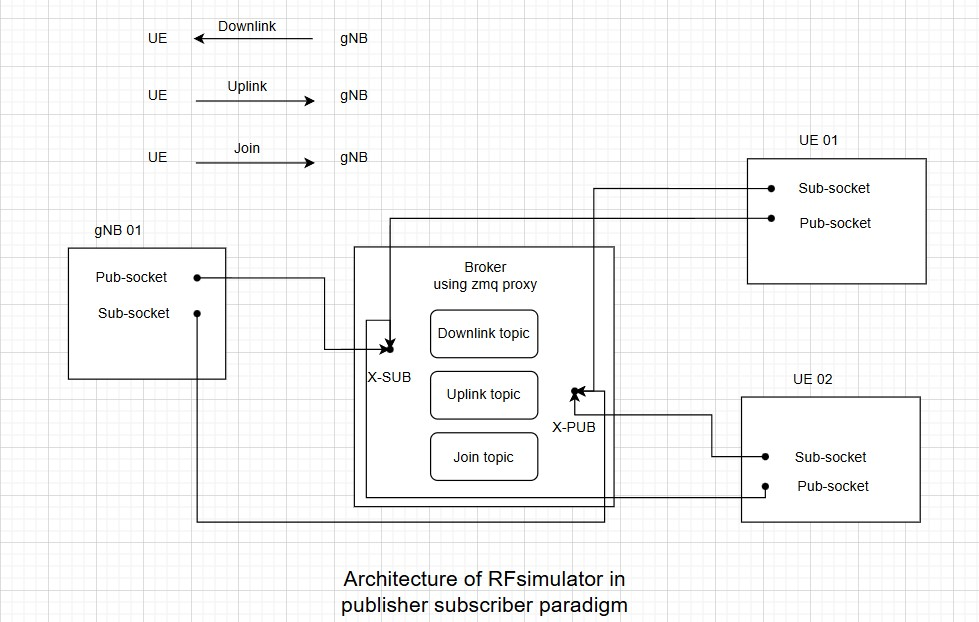
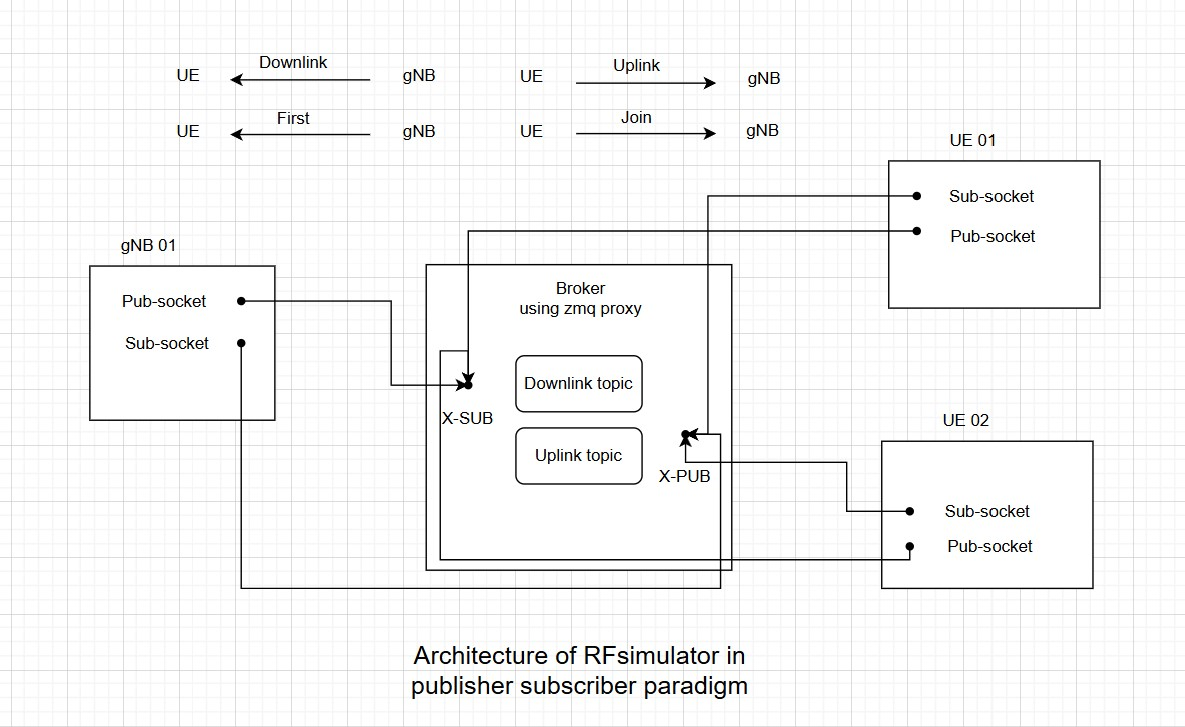
Updated architecture section

diff --git a/doc/rfsimulator_pub_sub/rfsim_pub_sub.md b/doc/rfsimulator_pub_sub/rfsim_pub_sub.md
@@ -4,14 +4,18 @@
 The original implementation of the RF simulator has certain limitations, particularly with regard to sidelink and mobility features. This is due to its client-server architecture, which was implemented using BSD sockets. To overcome these constraints, we transitioned to a publisher-subscriber paradigm using the ZMQ library. This new approach enhances scalability, enabling support for a larger number of devices.  
 # Architecture :
 
-The main components in the new architecture are:
-**Broker**: The broker is built using XSUB and XPUB sockets, and the [zmq_proxy](http://api.zeromq.org/4-2:zmq-proxy) function to route traffic between the two sockets.
+The main components in the new architecture are:  
+**Broker**: The broker is built using XSUB and XPUB sockets, and the [zmq proxy](http://api.zeromq.org/4-2:zmq-proxy) function to route traffic between the two sockets.
 
 The gNB and the UE both have 2 sockets, a subscriber socket that connects to XPUB socket of the broker and a publisher socket that connects to XSUB socket of the broker.
 
 **UE**: Subscribes to **downlink** topic.  
 **gNB**: Subscribes to **uplink** topic, and **join** topic to detect connections from UEs.
-
+## Topics:
+**Downlink**: a topic used to publish data from gNB to UE.  
+**Uplink**: a topic used to publish data from UE to gNB.  
+**First**: a topic used to publish the first message from gNB to UE.  
+**join**: a topic used to publish a join message from UE to gNB, when the UE is first connected to the broker.  
 See the following diagram:
 ![Rfsim pubsub architecture](rfsim-pubsub-architecture.jpg)
 
